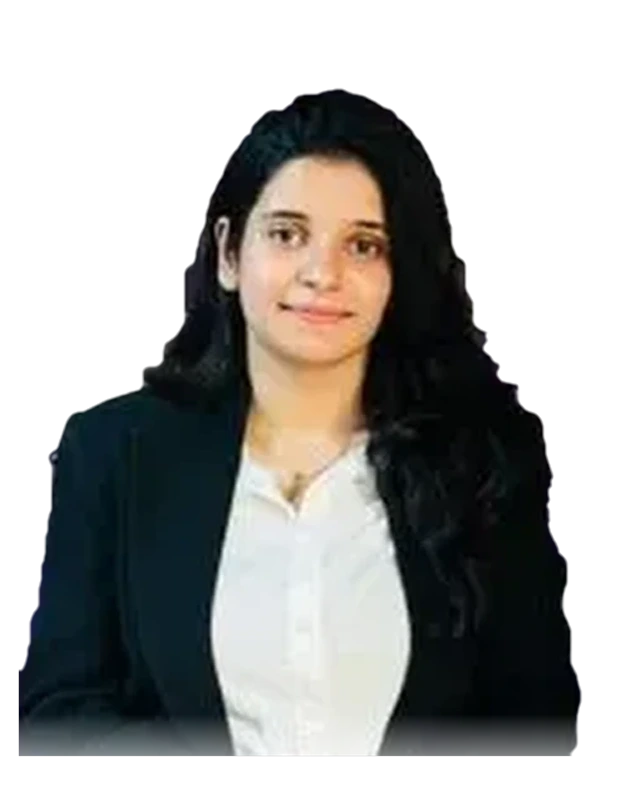
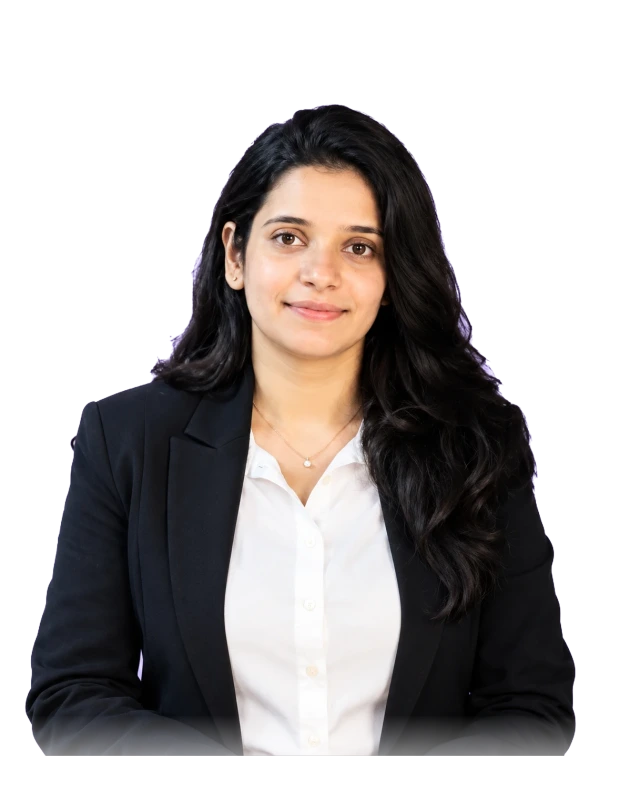
New portrait: Ms. Hardika

diff --git a/tulasi-web/scraper/12-uniform-portraits.py b/tulasi-web/scraper/12-uniform-portraits.py
@@ -66,6 +66,11 @@ CARDS6 = ['ms-apoorva-khanna', 'ms-ekta-kashyap', 'dr-ichpreet-singh']
 for _s in CARDS6:
     SOURCES[_s] = f"{SUP2}/{_s}.png"
 
+# Seventh batch: a clean headshot on a pastel backdrop
+CARDS7 = ["ms-hardika"]
+for _s in CARDS7:
+    SOURCES[_s] = f"{SUP2}/{_s}.webp"
+
 TW, TH = 640, 800  # 4:5
 cascades = [
     cv2.CascadeClassifier(cv2.data.haarcascades + "haarcascade_frontalface_default.xml"),
@@ -285,8 +290,8 @@ def portrait(img, alpha, face, slug=None):
     return out
 
 
-SUPPLIED = set(CARDS5) | set(CARDS6) | {"dr-kritika-soni", "ms-angshruta-mahanta", "inderjeet-singh", "dr-anu-yadav", "ms-ira-gupta", "ms-deliaka-ghanghass"}
-PREPARED = set(CARDS5) | set(CARDS6) | {"ms-ira-gupta", "ms-deliaka-ghanghass"}  # already cropped out of a screenshot of two cards: no corner trim or sparkle
+SUPPLIED = set(CARDS5) | set(CARDS6) | set(CARDS7) | {"dr-kritika-soni", "ms-angshruta-mahanta", "inderjeet-singh", "dr-anu-yadav", "ms-ira-gupta", "ms-deliaka-ghanghass"}
+PREPARED = set(CARDS5) | set(CARDS6) | set(CARDS7) | {"ms-ira-gupta", "ms-deliaka-ghanghass"}  # already cropped out of a screenshot of two cards: no corner trim or sparkle
 
 
 def clean_supplied(img, slug):
